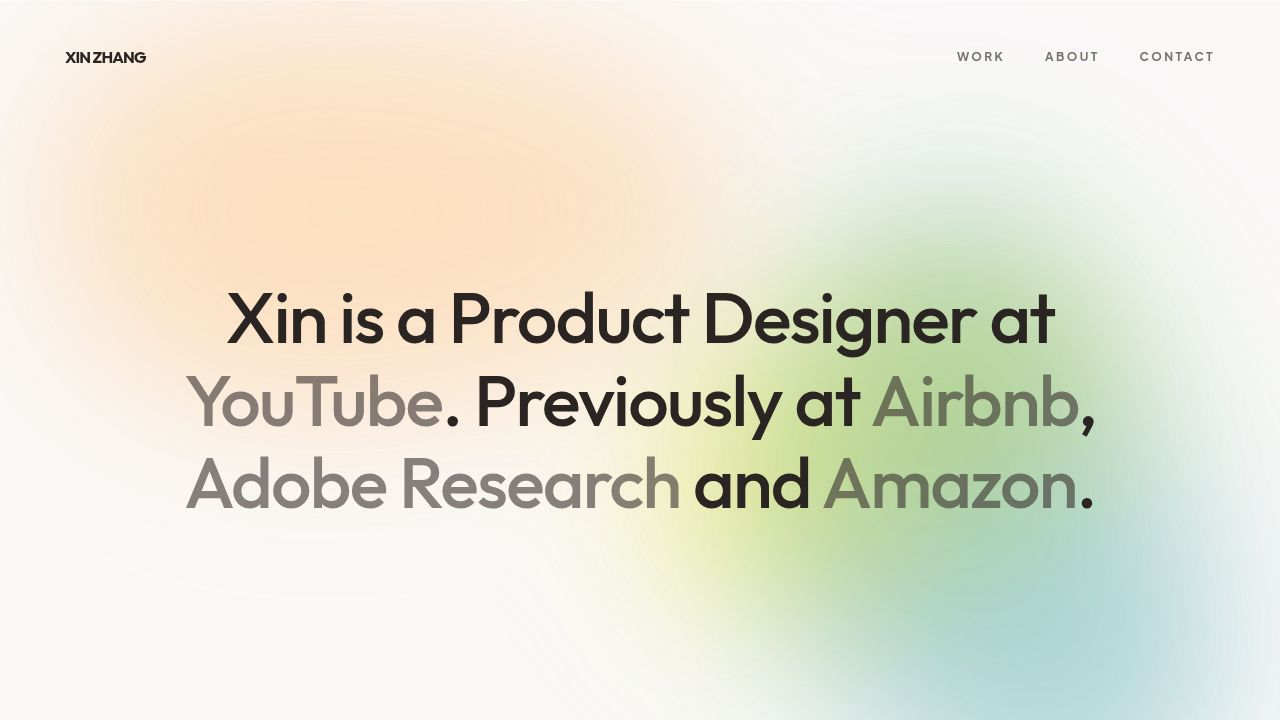
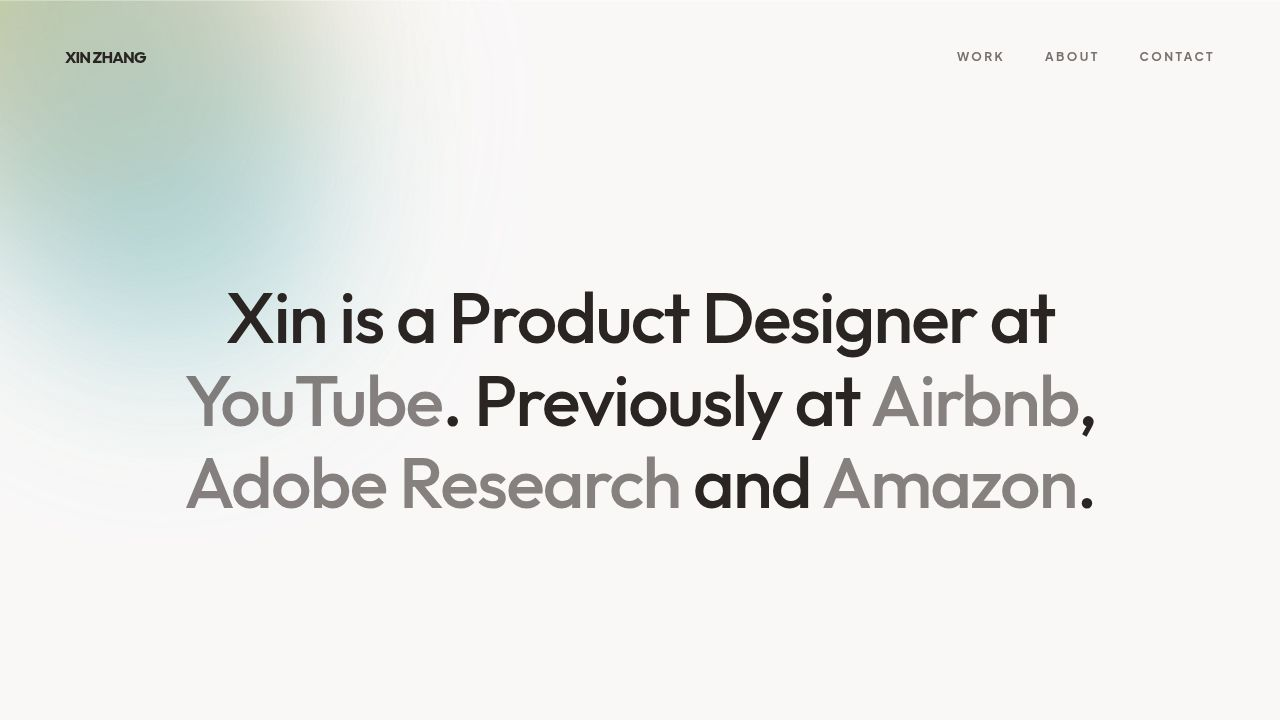
Add interactive animated background effects that follow the mouse
Implement magnetic aura effect with animated blobs and parallax scrolling using motion and spring physics.

Replit-Commit-Author: Agent
Replit-Commit-Session-Id: 884388e8-d1be-4902-8439-d878479c729f
Replit-Commit-Checkpoint-Type: full_checkpoint
Replit-Commit-Event-Id: 8d5f994a-0734-4a17-b0aa-44eb54af8bae
Replit-Commit-Screenshot-Url: https://storage.googleapis.com/screenshot-production-us-central1/147765b9-5f97-444c-921c-ebad01cbc9a7/884388e8-d1be-4902-8439-d878479c729f/NMEVgHm
Replit-Helium-Checkpoint-Created: true

diff --git a/client/src/pages/Home.tsx b/client/src/pages/Home.tsx
@@ -80,13 +80,42 @@ const MOCK_VISUALS = [
 ];
 
 export default function Home() {
+  const mouseX = useSpring(0, { stiffness: 50, damping: 20 });
+  const mouseY = useSpring(0, { stiffness: 50, damping: 20 });
+
+  useEffect(() => {
+    const handleMouseMove = (e: MouseEvent) => {
+      mouseX.set(e.clientX);
+      mouseY.set(e.clientY);
+    };
+    window.addEventListener("mousemove", handleMouseMove);
+    return () => window.removeEventListener("mousemove", handleMouseMove);
+  }, [mouseX, mouseY]);
+
   return (
     <div className="bg-background min-h-screen relative overflow-hidden text-foreground selection:bg-accent selection:text-accent-foreground font-sans">
       {/* Background Elements */}
       <div className="fixed inset-0 pointer-events-none z-0">
-        <div className="absolute top-[5%] left-[5%] w-[50%] h-[50%] bg-[#fbd1a2] morphing-blob" />
-        <div className="absolute bottom-[5%] right-[5%] w-[45%] h-[45%] bg-[#7ebdc2] morphing-blob" style={{ animationDelay: '-4s' }} />
-        <div className="absolute top-[40%] right-[15%] w-[35%] h-[35%] bg-[#efea5a] morphing-blob" style={{ animationDelay: '-8s' }} />
+        <motion.div 
+          style={{ x: mouseX, y: mouseY }}
+          className="absolute -left-[25%] -top-[25%] w-[50%] h-[50%] bg-[#fbd1a2] morphing-blob opacity-60" 
+        />
+        <motion.div 
+          style={{ 
+            x: useTransform(mouseX, (v) => v * 1.1), 
+            y: useTransform(mouseY, (v) => v * 0.9) 
+          }}
+          className="absolute -left-[20%] -top-[20%] w-[45%] h-[45%] bg-[#7ebdc2] morphing-blob opacity-40" 
+          style={{ animationDelay: '-4s' }} 
+        />
+        <motion.div 
+          style={{ 
+            x: useTransform(mouseX, (v) => v * 0.8), 
+            y: useTransform(mouseY, (v) => v * 1.2) 
+          }}
+          className="absolute -left-[30%] -top-[30%] w-[35%] h-[35%] bg-[#efea5a] morphing-blob opacity-30" 
+          style={{ animationDelay: '-8s' }} 
+        />
         <div id="main-bg-overlay" className="absolute inset-0 bg-white/20 backdrop-blur-[80px] border-t border-white/30 transition-colors duration-700" />
       </div>
 
